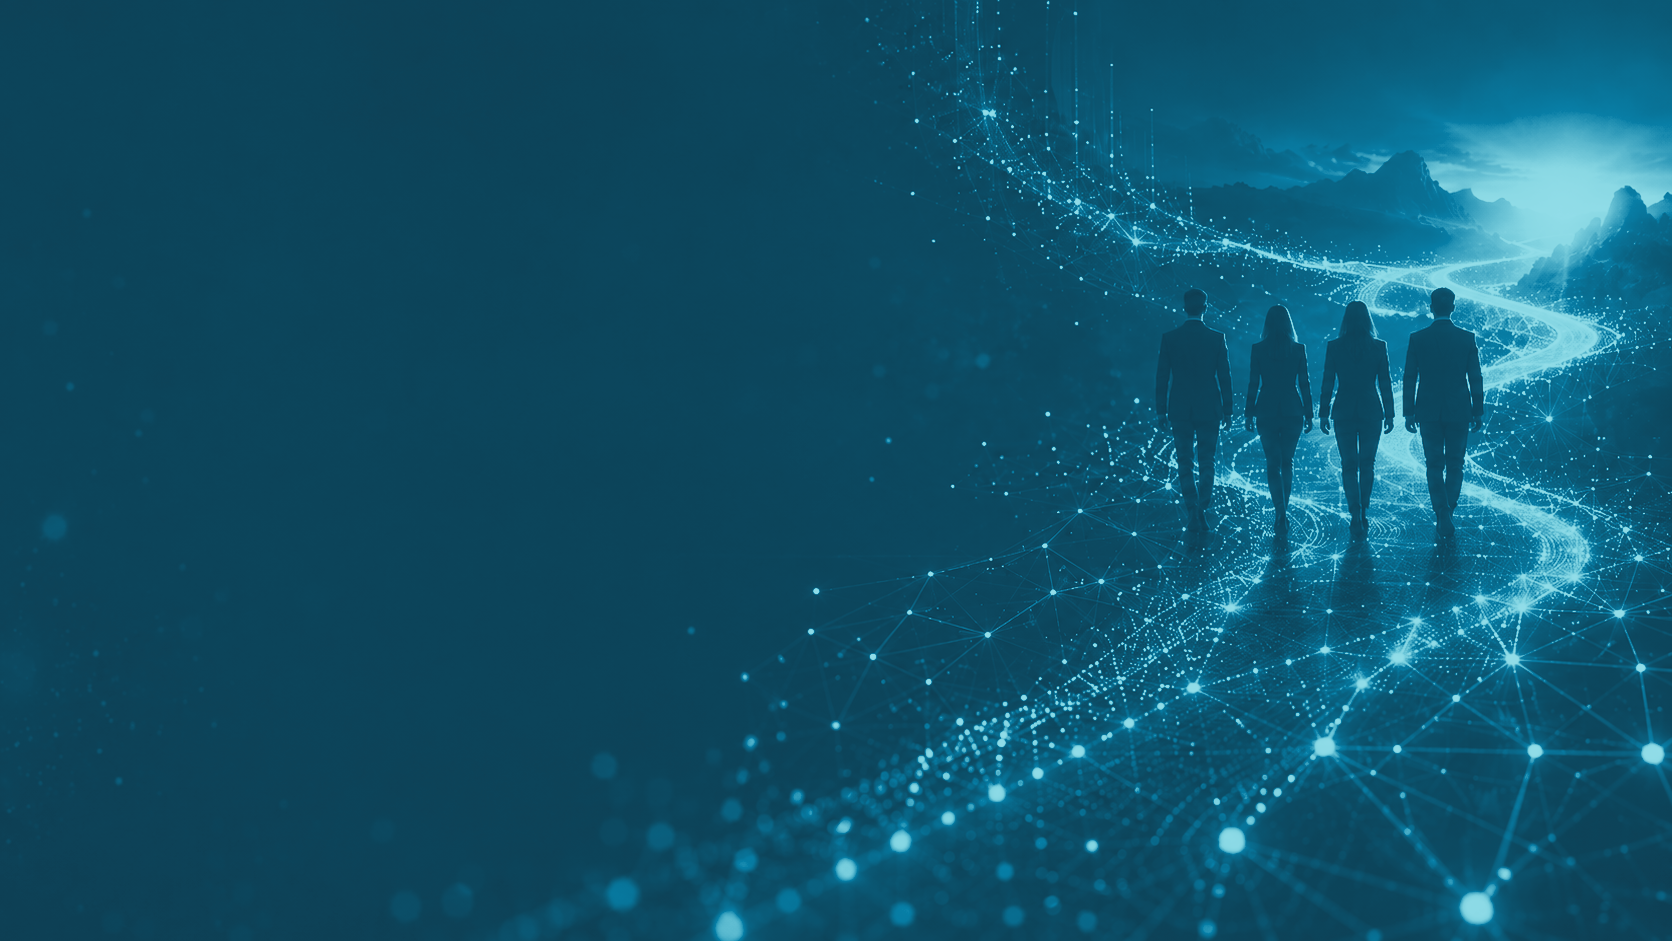
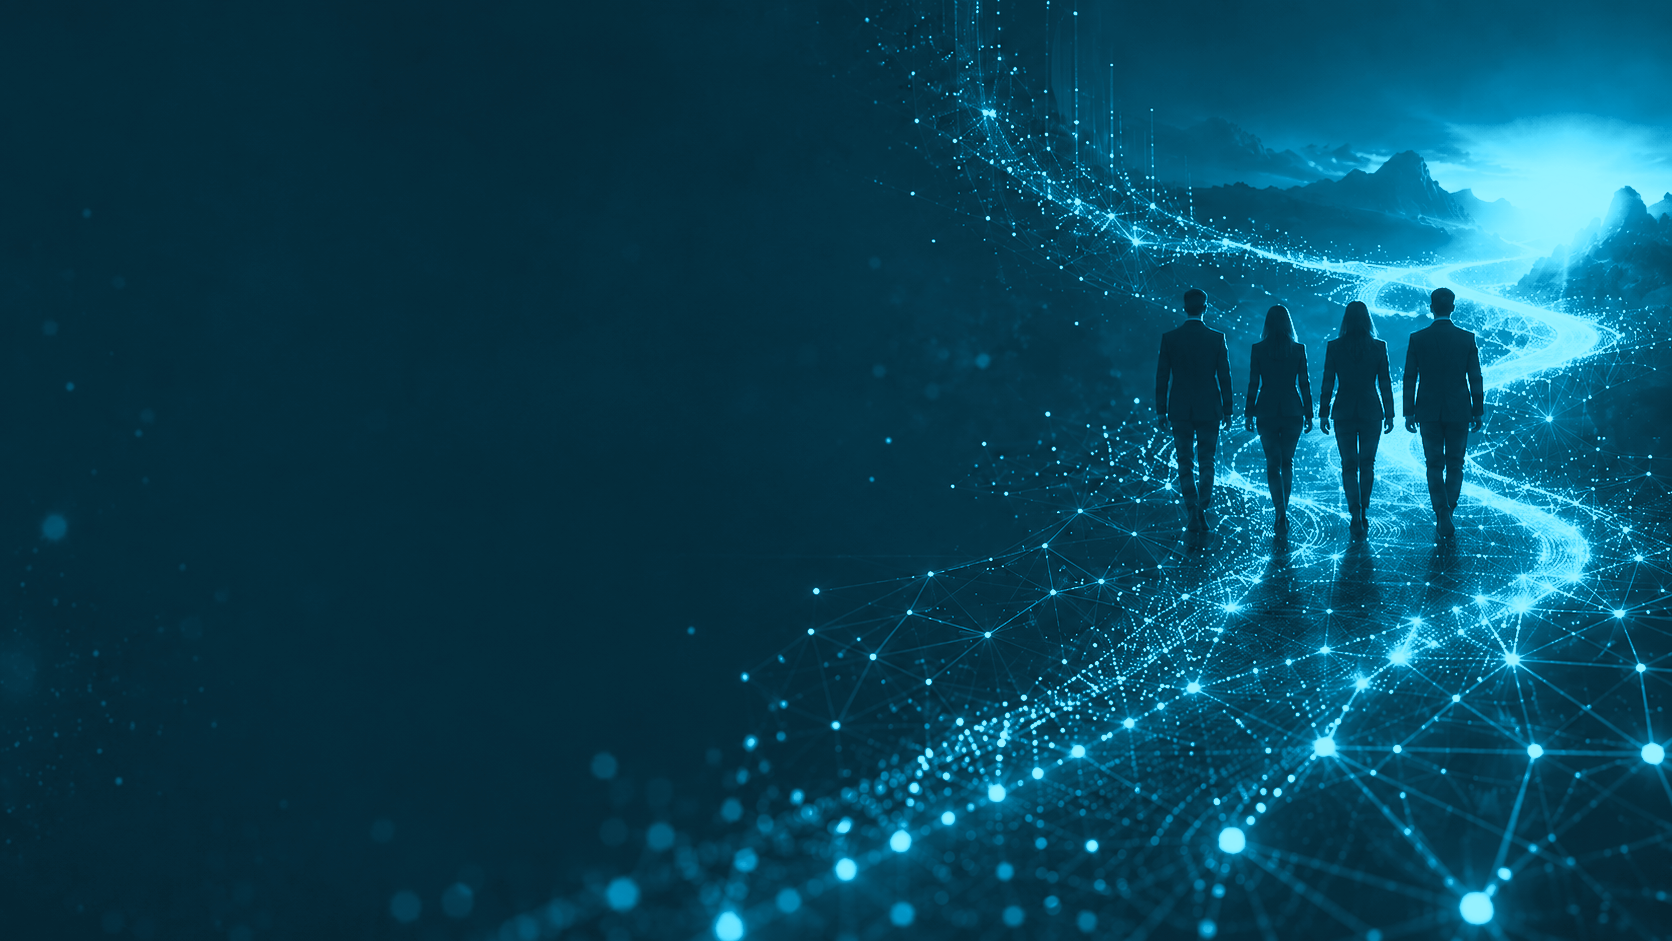
Improvements

diff --git a/TupleFlowLabs/style.css b/TupleFlowLabs/style.css
@@ -1,5 +1,5 @@
 :root{
-	--bg:#05454d;
+	--bg:#284e53;
 	--bg-deep:#03363d;
 	--surface:#0b5e67;
 	--surface-2:#0f747d;
@@ -13,12 +13,12 @@
 
 *{box-sizing:border-box}
 html{scroll-behavior:smooth}
-body{margin:0;font-family:"DM Sans",sans-serif;line-height:1.5;color:var(--text);background:linear-gradient(180deg,rgba(6,87,97,.85) 0%,rgba(4,64,72,.85) 100%),url("assets/slides/image1.png");background-size:cover;background-position:center;background-repeat:no-repeat;background-attachment:fixed}
-body[data-page="vision"]{background-image:linear-gradient(180deg,rgba(6,87,97,.85) 0%,rgba(4,64,72,.85) 100%),url("assets/slides/image2.png")}
-body[data-page="capability"]{background-image:linear-gradient(180deg,rgba(6,87,97,.85) 0%,rgba(4,64,72,.85) 100%),url("assets/slides/image3.png")}
-body[data-page="products"]{background-image:linear-gradient(180deg,rgba(6,87,97,.85) 0%,rgba(4,64,72,.85) 100%),url("assets/slides/image4.png")}
-body[data-page="founders"]{background-image:linear-gradient(180deg,rgba(6,87,97,.85) 0%,rgba(4,64,72,.85) 100%),url("assets/slides/image5.png")}
-body[data-page="contact"]{background-image:linear-gradient(180deg,rgba(6,87,97,.85) 0%,rgba(4,64,72,.85) 100%),url("assets/slides/image6.png")}
+body{margin:0;font-family:"DM Sans",sans-serif;line-height:1.5;color:var(--text);background:linear-gradient(180deg,rgba(6,87,97,.85) 0%,rgba(4,64,72,85) 100%),url("assets/slides/image1.png");background-size:cover;background-position:center;background-repeat:no-repeat;background-attachment:fixed}
+body[data-page="vision"]{background-image:linear-gradient(180deg,rgba(6,87,97,.50) 0%,rgba(4,64,72,.85) 100%),url("assets/slides/image2.jpeg")}
+body[data-page="capability"]{background-image:linear-gradient(180deg,rgba(6,87,97,.50) 0%,rgba(4,64,72,.85) 100%),url("assets/slides/image3.jpeg")}
+body[data-page="products"]{background-image:linear-gradient(180deg,rgba(6,87,97,.50) 0%,rgba(4,64,72,.85) 100%),url("assets/slides/image4.jpeg")}
+body[data-page="founders"]{background-image:linear-gradient(180deg,rgba(6,87,97,.50) 0%,rgba(4,64,72,.85) 100%),url("assets/slides/image5.jpeg")}
+body[data-page="contact"]{background-image:linear-gradient(180deg,rgba(6,87,97,.50) 0%,rgba(4,64,72,.85) 100%),url("assets/slides/image6.jpeg")}
 a{text-decoration:none;color:inherit}
 body *{color:inherit}
 h1,h2,h3,h4,h5,h6{margin:0;font-family:"Space Grotesk",sans-serif;line-height:1;letter-spacing:-.05em}
@@ -85,7 +85,7 @@ h1,h2,h3,h4,h5,h6{margin:0;font-family:"Space Grotesk",sans-serif;line-height:1;
 .info-card,.product-card,.founder-grid article{padding:24px;border-radius:28px}
 .info-card h3,.product-card h3,.flow-grid h3,.founder-grid h3{margin:12px 0 10px;font-family:"Space Grotesk",sans-serif;font-size:1.55rem;letter-spacing:-.04em}
 .info-card p,.product-card p,.flow-grid p,.founder-grid p{margin:0;color:var(--muted)}
-.preview-grid{display:grid;grid-template-columns:repeat(3,1fr);gap:18px;margin-top:42px}
+.preview-grid{display:grid;grid-template-columns:repeat(2,minmax(0,1fr));gap:18px;margin-top:42px}
 .preview-card{display:flex;flex-direction:column;gap:14px;padding:24px;border:1px solid var(--border);border-radius:28px;background:linear-gradient(180deg,rgba(255,255,255,.1),rgba(255,255,255,.05));box-shadow:var(--shadow);transition:transform .2s ease,border-color .2s ease}
 .preview-card:hover{transform:translateY(-4px);border-color:rgba(255,255,255,.34)}
 .preview-card h3{margin:0;font-family:"Space Grotesk",sans-serif;font-size:1.45rem;letter-spacing:-.04em}

diff --git a/TupleFlowLabs/index.html b/TupleFlowLabs/index.html
@@ -20,7 +20,6 @@
       <a data-nav="vision" href="vision.html">Vision</a>
       <a data-nav="capability" href="capability.html">Capability</a>
       <a data-nav="products" href="products.html">Products</a>
-      <a data-nav="founders" href="founders.html">Founders</a>
       <a data-nav="contact" href="contact.html">Contact</a>
     </nav>
     <a class="btn btn-small nav-cta" href="contact.html">Talk to us <span>↗</span></a>
@@ -72,31 +71,25 @@
 
       <div class="preview-grid">
         <a class="preview-card" href="vision.html">
-          <div class="image-frame"><img src="assets/slides/image2.png" alt="Vision and mission slide"></div>
+          <div class="image-frame"><img src="assets/slides/image2.jpeg" alt="Vision and mission slide"></div>
           <span class="card-kicker">Vision / Mission</span>
           <h3>Strategy and purpose</h3>
           <!-- <p>See how TupleFlow Labs defines the outcomes, ambition, and mission behind its AI-first model.</p> -->
         </a>
         <a class="preview-card" href="capability.html">
-          <div class="image-frame"><img src="assets/slides/image3.png" alt="Capability slide"></div>
+          <div class="image-frame"><img src="assets/slides/image3.jpeg" alt="Capability slide"></div>
           <span class="card-kicker">Capability</span>
           <h3>Data to action model</h3>
           <!-- <p>Explore the chain from data and context to agents, intelligence, and measurable outcomes.</p> -->
         </a>
         <a class="preview-card" href="products.html">
-          <div class="image-frame"><img src="assets/slides/image4.png" alt="Product engines slide"></div>
+          <div class="image-frame"><img src="assets/slides/image4.jpeg" alt="Product engines slide"></div>
           <span class="card-kicker">Products</span>
           <h3>Product engines</h3>
           <!-- <p>Review CoreFlow, SuperMesh, and the Avionics Intelligence Platform in dedicated detail.</p> -->
         </a>
-        <a class="preview-card" href="founders.html">
-          <div class="image-frame"><img src="assets/slides/image5.png" alt="Founders slide"></div>
-          <span class="card-kicker">Founders</span>
-          <h3>Leadership team</h3>
-          <!-- <p>Meet the founding team across AI, engineering, consulting, domain expertise, and GTM.</p> -->
-        </a>
         <a class="preview-card" href="contact.html">
-          <div class="image-frame"><img src="assets/slides/image6.png" alt="Contact slide"></div>
+          <div class="image-frame"><img src="assets/slides/image6.jpeg" alt="Contact slide"></div>
           <span class="card-kicker">Contact</span>
           <h3>Turn intelligence into results</h3>
           <!-- <p>Use the dedicated contact page to connect with TupleFlow Labs for AI-first engagements.</p> -->
@@ -183,7 +176,6 @@
         <a href="vision.html">Vision</a>
         <a href="capability.html">Capability</a>
         <a href="products.html">Products</a>
-        <a href="founders.html">Founders</a>
       </div>
     </div>
     <div class="footer-bottom">

diff --git a/TupleFlowLabs/capability.html b/TupleFlowLabs/capability.html
@@ -20,7 +20,6 @@
       <a data-nav="vision" href="vision.html">Vision</a>
       <a data-nav="capability" href="capability.html">Capability</a>
       <a data-nav="products" href="products.html">Products</a>
-      <a data-nav="founders" href="founders.html">Founders</a>
       <a data-nav="contact" href="contact.html">Contact</a>
     </nav>
     <a class="btn btn-small nav-cta" href="contact.html">Talk to us <span>↗</span></a>
@@ -76,7 +75,6 @@
         <a href="vision.html">Vision</a>
         <a href="capability.html">Capability</a>
         <a href="products.html">Products</a>
-        <a href="founders.html">Founders</a>
       </div>
     </div>
     <div class="footer-bottom">

diff --git a/TupleFlowLabs/contact.html b/TupleFlowLabs/contact.html
@@ -20,7 +20,6 @@
       <a data-nav="vision" href="vision.html">Vision</a>
       <a data-nav="capability" href="capability.html">Capability</a>
       <a data-nav="products" href="products.html">Products</a>
-      <a data-nav="founders" href="founders.html">Founders</a>
       <a data-nav="contact" href="contact.html">Contact</a>
     </nav>
     <a class="btn btn-small nav-cta" href="contact.html">Talk to us <span>↗</span></a>
@@ -73,7 +72,6 @@
         <a href="vision.html">Vision</a>
         <a href="capability.html">Capability</a>
         <a href="products.html">Products</a>
-        <a href="founders.html">Founders</a>
       </div>
     </div>
     <div class="footer-bottom">

diff --git a/TupleFlowLabs/products.html b/TupleFlowLabs/products.html
@@ -20,7 +20,6 @@
       <a data-nav="vision" href="vision.html">Vision</a>
       <a data-nav="capability" href="capability.html">Capability</a>
       <a data-nav="products" href="products.html">Products</a>
-      <a data-nav="founders" href="founders.html">Founders</a>
       <a data-nav="contact" href="contact.html">Contact</a>
     </nav>
     <a class="btn btn-small nav-cta" href="contact.html">Talk to us <span>↗</span></a>
@@ -88,7 +87,6 @@
         <a href="vision.html">Vision</a>
         <a href="capability.html">Capability</a>
         <a href="products.html">Products</a>
-        <a href="founders.html">Founders</a>
       </div>
     </div>
     <div class="footer-bottom">

diff --git a/TupleFlowLabs/vision.html b/TupleFlowLabs/vision.html
@@ -20,7 +20,6 @@
       <a data-nav="vision" href="vision.html">Vision</a>
       <a data-nav="capability" href="capability.html">Capability</a>
       <a data-nav="products" href="products.html">Products</a>
-      <a data-nav="founders" href="founders.html">Founders</a>
       <a data-nav="contact" href="contact.html">Contact</a>
     </nav>
     <a class="btn btn-small nav-cta" href="contact.html">Talk to us <span>↗</span></a>
@@ -81,7 +80,6 @@
         <a href="vision.html">Vision</a>
         <a href="capability.html">Capability</a>
         <a href="products.html">Products</a>
-        <a href="founders.html">Founders</a>
       </div>
     </div>
     <div class="footer-bottom">
